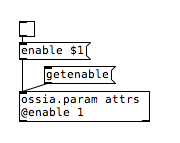
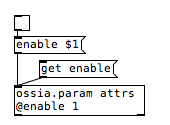
documenting recall_safe
and fixing syntax for attribute getting in pd

Changed region(s): [[0.0588, 0.12, 0.8529, 0.936]]

diff --git a/source/index.html.md b/source/index.html.md
@@ -2244,6 +2244,51 @@ n = OSSIA_Node(~some_device, 'super_important_node');
 n.priority = 10;
 ```
 
+## Recall_safe
+
+Nodes with the recallSafe attribute set to 1 won’t be recalled by presets (or other state recall).
+
+```c
+ossia_node_t node = ...;
+ossia_node_set_recall_safe(node, 10);
+ossia_node_unset_recall_safe(node);
+```
+
+```cpp--98
+opp::node& node = ...;
+node.set_recall_safe(10);
+node.unset_recall_safe();
+```
+
+```cpp--14
+ossia::net::node_base& node = ...;
+ossia::net::set_recall_safe(node, 10);
+ossia::net::set_recall_safe(node, ossia::none);
+```
+
+```python
+// not yet implemented
+```
+
+```qml
+// not yet implemented
+```
+
+```cpp--ofx
+// not yet implemented
+```
+
+```csharp
+```
+<pre class="highlight plaintext tab-plaintext--pd"><img src="/images/pd/recall_safe.png" /></pre>
+
+<pre class="highlight plaintext tab-plaintext--max"><img src="/images/max/recall_safe.png" /></pre>
+
+```javascript
+n = OSSIA_Node(~some_device, 'super_important_node');
+n.priority = 10;
+```
+
 ## Refresh rate
 
 An optional value that says how often a value should be updated. 
@@ -2801,6 +2846,9 @@ g.value = "something else";
 // reload the original state preset
 d.load_preset();
 ```
+
+> (Note that the values for parameters with ```recall_safe``` attribute set to ```1``` will not be recalled) 
+
 ## Preset instances
 
 Being able to create new objects in reaction to the loading of a preset
